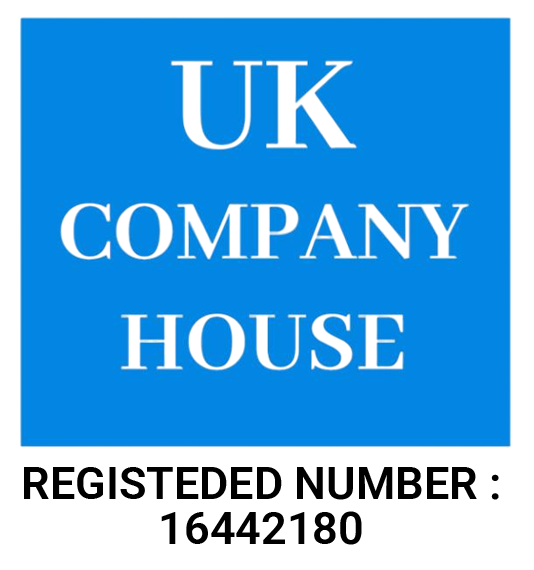
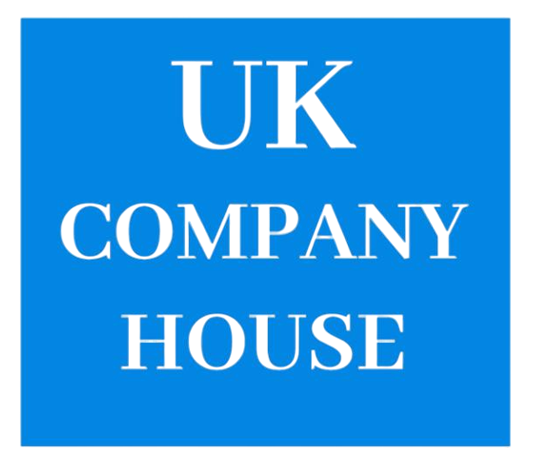
new commit for cbpd

diff --git a/components/recognition/Recognition.jsx b/components/recognition/Recognition.jsx
@@ -8,17 +8,22 @@ function Recognition() {
         Our Recognitions & Accreditations
       </h1>
       <div className=" md:flex md:items-center py-5  grid grid-cols-1 gap-10 place-items-center md:w-full md:justify-center md:gap-20">
-        <Image
-          src={reg}
-          alt="payments"
-          width={320}
-          height={30}
-          style={{
-            width: "auto",
-            height: "auto",
-            maxWidth: "200px",
-          }}
-        />
+        <div className=" flex flex-col gap-2 items-center">
+          <Image
+            src={reg}
+            alt="payments"
+            width={320}
+            height={30}
+            style={{
+              width: "auto",
+              height: "auto",
+              maxWidth: "200px",
+            }}
+          />
+          <h1 className=" text-black font-bold">
+            Registration Number:16442180
+          </h1>
+        </div>
 
         <Image
           src="/images/footer/cpdlogo.png"
@@ -71,7 +76,9 @@ function Recognition() {
               maxWidth: "200px",
             }}
           />
-          <h1 className=" text-black font-bold">Registration Number:ZC015593</h1>
+          <h1 className=" text-black font-bold">
+            Registration Number:ZC015593
+          </h1>
         </div>
       </div>
     </div>
